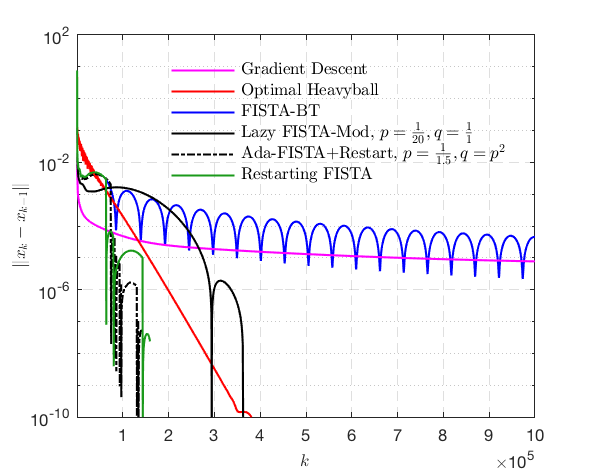
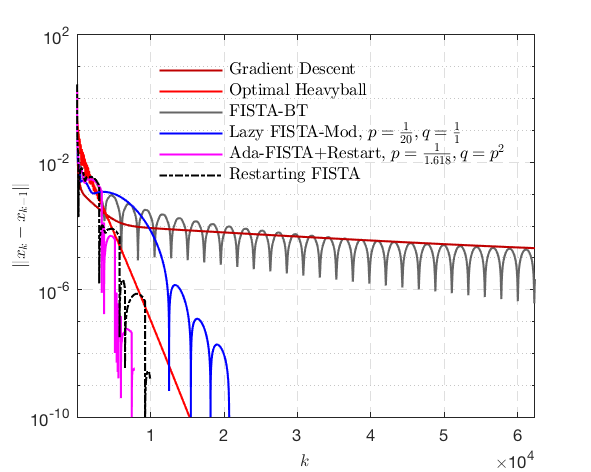
update figures

diff --git a/codes/lse/cmp_LSE.m b/codes/lse/cmp_LSE.m
@@ -2,7 +2,7 @@ clear all;
 close all;
 clc;
 %%
-n = 2e2 + 1;
+n = 4e1 + 1;
 
 A = 2*eye(n) - diag(ones(n-1,1), -1) - diag(ones(n-1,1), 1);
 
@@ -66,7 +66,7 @@ fprintf('\n');
 fprintf(sprintf('performing restarting AdaFISTA...\n'));
 
 r = 4;%*(1 - sqrt(alpha*gamma))^2/(1-alpha*gamma);
-p = 1/1.5;
+p = 1/1.618;
 q = p^2;
 
 [x4, ek4, fk4, its4] = func_AdaFISTA_sR(p,q,r, para, GradF, ObjF);
@@ -99,15 +99,15 @@ set(0,'DefaultAxesFontSize', axesFontSize);
 set(gcf,'paperunits','centimeters','paperposition',[-0.1 -0.0 output_size/resolution]);
 set(gcf,'papersize',output_size/resolution-[0.85 0.4]);
 
-p0e = semilogy(ek0, 'm', 'LineWidth',linewidth);
+p0e = semilogy(ek0, 'color',[0.75,0.0,0.0], 'LineWidth',linewidth);
 hold on,
 p1e = semilogy(ek1, 'r', 'LineWidth',linewidth);
 
-p2e = semilogy(ek2, 'b', 'LineWidth',linewidth);
-p3e = semilogy(ek3, 'k', 'LineWidth',linewidth);
+p2e = semilogy(ek2, 'color',[0.4,0.4,0.4], 'LineWidth',linewidth);
+p3e = semilogy(ek3, 'b', 'LineWidth',linewidth);
 
-p4e = semilogy(ek4, 'k-.', 'LineWidth',linewidth);
-p5e = semilogy(ek5, 'color',[0.1,0.6,0.1], 'LineWidth',linewidth);
+p4e = semilogy(ek4, 'color',[0.99,0.0,0.99], 'LineWidth',linewidth);
+p5e = semilogy(ek5, 'k-.', 'LineWidth',linewidth);
 
 uistack(p2e, 'bottom');
 
@@ -115,7 +115,7 @@ grid on;
 ax = gca;
 ax.GridLineStyle = '--';
 
-axis([1, length(ek2)/1, 1e-10, 1e2]);
+axis([1, length(ek2)/10, 1e-10, 1e2]);
 ytick = [1e-10, 1e-6, 1e-2, 1e2];
 set(gca, 'yTick', ytick);
 
@@ -130,7 +130,7 @@ set(xlb, 'Units', 'Normalized', 'Position', [1/2, -0.075, 0]);
 lg = legend([p0e, p1e, p2e, p3e, p4e, p5e], ...
     'Gradient Descent', 'Optimal Heavyball',...
     'FISTA-BT', 'Lazy FISTA-Mod, $p = \frac{1}{20}, q = \frac{1}{1}$',...
-    'Ada-FISTA+Restart, $p=\frac{1}{1.5}, q=p^2$',...
+    'Ada-FISTA+Restart, $p=\frac{1}{1.618}, q=p^2$',...
     'Restarting FISTA');
 set(lg,'FontSize', legendFontSize);
 set(lg, 'Interpreter', 'latex');
@@ -160,15 +160,17 @@ set(0,'DefaultAxesFontSize', axesFontSize);
 set(gcf,'paperunits','centimeters','paperposition',[-0.1 -0.0 output_size/resolution]);
 set(gcf,'papersize',output_size/resolution-[0.85 0.4]);
 
-p0e = semilogy(fk0-phistar, 'm', 'LineWidth',linewidth);
+p0e = semilogy(fk0-phistar, 'color',[0.75,0.0,0.0], 'LineWidth',linewidth);
 hold on,
 p1e = semilogy(fk1-phistar, 'r', 'LineWidth',linewidth);
 
-p2e = semilogy(fk2-phistar, 'b', 'LineWidth',linewidth);
-p3e = semilogy(fk3-phistar, 'k', 'LineWidth',linewidth);
+p2e = semilogy(fk2-phistar, 'color',[0.4,0.4,0.4], 'LineWidth',linewidth);
+p3e = semilogy(fk3-phistar, 'b', 'LineWidth',linewidth);
 
-p4e = semilogy(fk4-phistar, 'k-.', 'LineWidth',linewidth);
-p5e = semilogy(fk5-phistar, 'color',[0.1,0.6,0.1], 'LineWidth',linewidth);
+p4e = semilogy(fk4-phistar, 'color',[0.99,0.0,0.99], 'LineWidth',linewidth);
+p5e = semilogy(fk5-phistar, 'k-.', 'LineWidth',linewidth);
+
+
 
 uistack(p2e, 'bottom');
 
@@ -176,7 +178,7 @@ grid on;
 ax = gca;
 ax.GridLineStyle = '--';
 
-axis([1, length(ek2)/1, 1e-14, 1e2]);
+axis([1, length(ek2)/10, 1e-14, 1e2]);
 ytick = [1e-14, 1e-10, 1e-6, 1e-2, 1e2];
 set(gca, 'yTick', ytick);
 
@@ -191,7 +193,7 @@ set(xlb, 'Units', 'Normalized', 'Position', [1/2, -0.075, 0]);
 lg = legend([p0e, p1e, p2e, p3e, p4e, p5e], ...
     'Gradient Descent', 'Optimal Heavyball',...
     'FISTA-BT', 'Lazy FISTA-Mod, $p = \frac{1}{20}, q = \frac{1}{1}$',...
-    'Ada-FISTA+Restart, $p=\frac{1}{1.5}, q=p^2$',...
+    'Ada-FISTA+Restart, $p=\frac{1}{1.618}, q=p^2$',...
     'Restarting FISTA');
 set(lg,'FontSize', legendFontSize);
 set(lg, 'Interpreter', 'latex');
